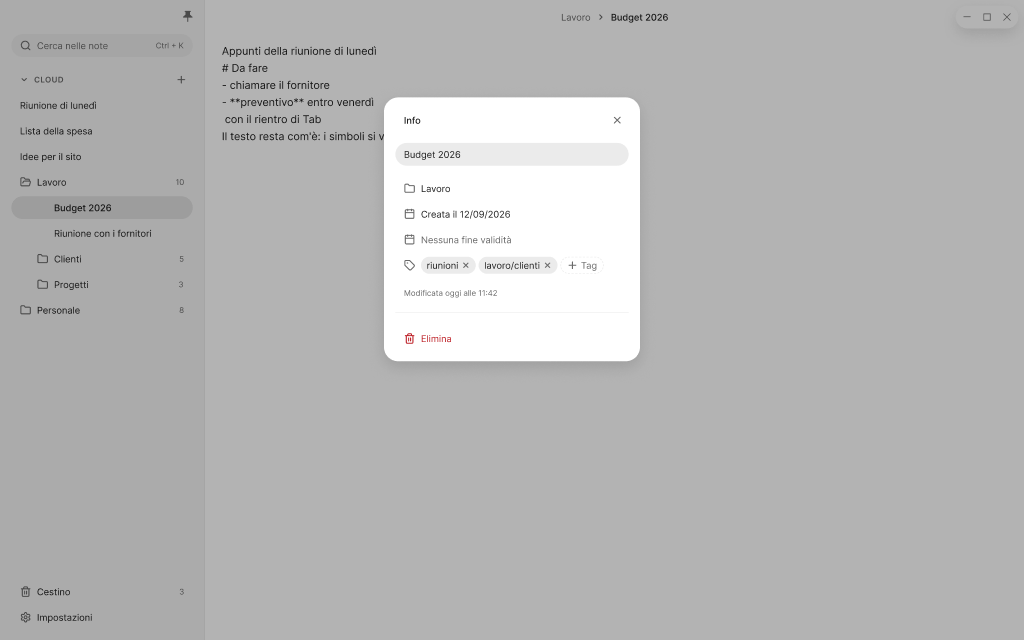
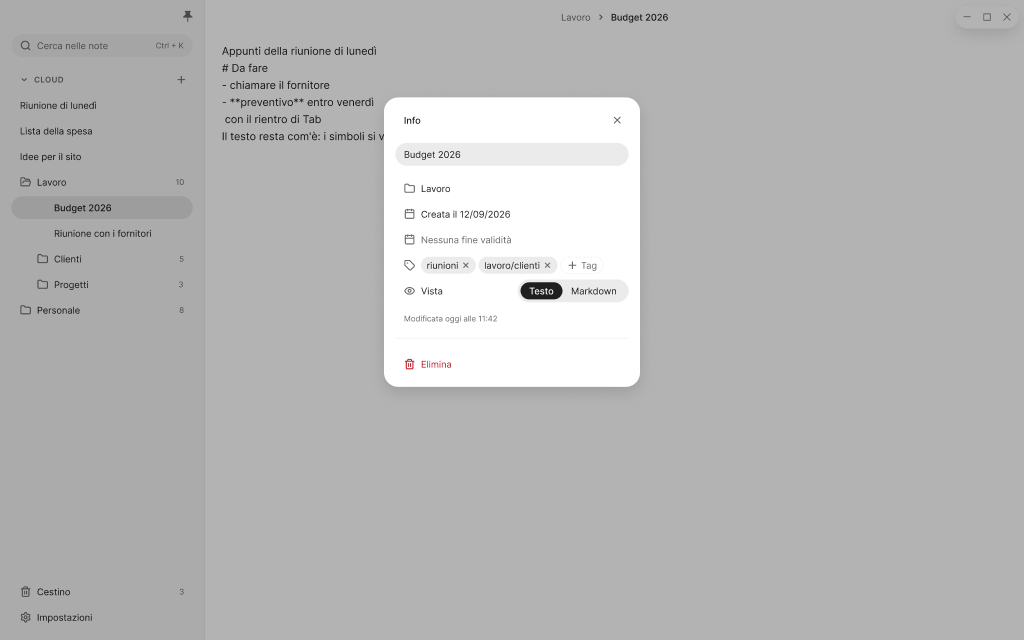
DEC-130: Fasi 5 e 6 di RF-02 in Figma, riga Vista e mockup della vista Markdown

Changed region(s): [[0.375, 0.5312, 0.625, 0.625], [0.4062, 0.4375, 0.4688, 0.5312], [0.5, 0.4375, 0.5938, 0.4688]]

diff --git a/docs/moduli/note/4-schermate.md b/docs/moduli/note/4-schermate.md
@@ -88,6 +88,7 @@ Stessi tasti fisici sui due sistemi, libere nelle configurazioni di default di e
 - **Mockup della finestra Info (frammento Must C, DEC-44, approvati da Manuel Cucca il 29/09/2026):** [nota con tag in sola lettura](https://www.figma.com/design/18288YdcRf5vtWCtEefQYJ?node-id=60-3520) · [menu ··· con Info](https://www.figma.com/design/18288YdcRf5vtWCtEefQYJ?node-id=60-3665) · [tasto destro sulla nota](https://www.figma.com/design/18288YdcRf5vtWCtEefQYJ?node-id=60-3785) · [finestra Info](https://www.figma.com/design/18288YdcRf5vtWCtEefQYJ?node-id=60-3866) · [suggerimenti dei tag](https://www.figma.com/design/18288YdcRf5vtWCtEefQYJ?node-id=60-5139) · [calendario](https://www.figma.com/design/18288YdcRf5vtWCtEefQYJ?node-id=60-5262) · [tasto destro su un suggerimento](https://www.figma.com/design/18288YdcRf5vtWCtEefQYJ?node-id=60-5473) · [conferma di eliminazione](https://www.figma.com/design/18288YdcRf5vtWCtEefQYJ?node-id=60-5670); esportazioni `immagini/SC-03-dettagli-nota-mockup.png`, `immagini/SC-03-dettagli-menu-mockup.png`, `immagini/SC-01-dettagli-tasto-destro-mockup.png`, `immagini/SC-03-dettagli-mockup.png`, `immagini/SC-03-dettagli-suggerimenti-mockup.png`, `immagini/SC-03-dettagli-calendario-mockup.png`, `immagini/SC-03-dettagli-tasto-destro-tag-mockup.png`, `immagini/SC-03-dettagli-elimina-tag-mockup.png`
 - **Superati da DEC-96 (01/10/2026):** i mockup del menu `···` della nota, della finestra Info aperta dal `···`, della comparsa dei metadati e del titolo che si modifica nel percorso: Info si apre con un clic sul titolo, sotto di lui (CMP-24). Restano nel file come storia, con «SUPERATO (DEC-96)» nella didascalia, finché non si ridisegnano; il tasto destro sulla nota resta valido, con «Info». Esportazioni aggiornate il 01/10/2026 dopo la pubblicazione della libreria
 - **Mockup di Info (DEC-96, approvati da Manuel Cucca il 01/10/2026):** [Info sotto il titolo](https://www.figma.com/design/18288YdcRf5vtWCtEefQYJ?node-id=151-5987) · [calendario](https://www.figma.com/design/18288YdcRf5vtWCtEefQYJ?node-id=151-6343) · [suggerimenti dei tag](https://www.figma.com/design/18288YdcRf5vtWCtEefQYJ?node-id=151-6714) · [nota senza titolo](https://www.figma.com/design/18288YdcRf5vtWCtEefQYJ?node-id=151-6972) · [tasto destro sulla nota](https://www.figma.com/design/18288YdcRf5vtWCtEefQYJ?node-id=60-3785) · [Info dal tasto destro](https://www.figma.com/design/18288YdcRf5vtWCtEefQYJ?node-id=153-2336) (in SC-01); esportazioni `immagini/SC-03-info-*-mockup.png` e `immagini/SC-01-dettagli-tasto-destro-mockup.png`. Info si apre con un clic sul titolo e il titolo è in hover; il cursore è nel campo del titolo senza l'anello, che si vede solo con la tastiera (DEC-74). Il `···` è tolto da tutti i mockup validi
+- **Mockup della vista (DEC-130, approvati da Manuel Cucca il 08/10/2026):** [nota in vista Markdown con Info](https://www.figma.com/design/18288YdcRf5vtWCtEefQYJ?node-id=218-16566): simboli mai visibili e la riga Vista con Markdown scelto. I mockup di Info qui sopra e quello di Info dal tasto destro (`interfaccia/4-schermate.md`) hanno la riga Vista con Testo scelto, perché mostrano una nota in vista Testo, e sono esportati di nuovo. Il mockup dei simboli sulla riga del cursore di Must A è SUPERATO (DEC-130); quelli della pillola, del menu «/» e del tasto destro restano SOSPESI (DEC-64, DEC-130). Esportazione: `immagini/SC-03-vista-markdown-mockup.png`
 - **Mockup del titolo nel percorso (DEC-71, 30/09/2026):** i mockup di Must A e Must C qui sopra sono aggiornati con il percorso al centro della fascia in alto, senza titolo e metadati nel foglio, ed esportati di nuovo; in più [comparsa dei metadati](https://www.figma.com/design/18288YdcRf5vtWCtEefQYJ?node-id=92-6457) · [titolo in modifica](https://www.figma.com/design/18288YdcRf5vtWCtEefQYJ?node-id=92-6601); esportazioni `immagini/SC-03-comparsa-metadati-mockup.png`, `immagini/SC-03-titolo-modifica-mockup.png`. Proposte in [Proposta · Titolo nel percorso](https://www.figma.com/design/18288YdcRf5vtWCtEefQYJ?node-id=88-4408)
 
 | Cosa | Dove | Come |

diff --git a/docs/registri/storico.md b/docs/registri/storico.md
@@ -502,3 +502,4 @@
 | 08/10/2026 | Manuel Cucca | Entità di note, organizzazione e interfaccia: «Dati sensibili» dice che la cifratura è attiva dalla 0.1.13, al posto di «per ora in chiaro» | DEC-121 |
 | 08/10/2026 | Manuel Cucca | Ciclo 1.1.0, Fase 4 di RF-02: riga Vista in Info, ultima delle righe dopo Tag, con «Vista» e la Scelta a segmenti Testo · Markdown, nella Comparsa e nella Finestra | DEC-130 |
 | 08/10/2026 | Manuel Cucca | Ciclo 1.1.0, Fase 5 di RF-02: riga Vista in CMP-24 con la Scelta a segmenti (CMP-28, verificata su `sfondo-flottante`); in CMP-20 le varianti Vista Testo e Vista Markdown, tastiera senza scorciatoie di formattazione; nuovo CA-02.20, la casella della checklist si spunta con un clic | DEC-130 |
+| 08/10/2026 | Agente IA | Ciclo 1.1.0, Fasi 5 e 6 di RF-02 in Figma: riga Vista nelle quattro varianti di CMP-24 e sezione riallineata; in CMP-20 il `##` nascosto e le etichette Vista Markdown e Vista Testo; nei mockup Info aggiornata con la riga Vista, nuovo mockup della nota in vista Markdown, simboli di Must A SUPERATI, pillola, menu «/» e tasto destro SOSPESI; sei esportazioni; approvati da Manuel Cucca | DEC-130 |
